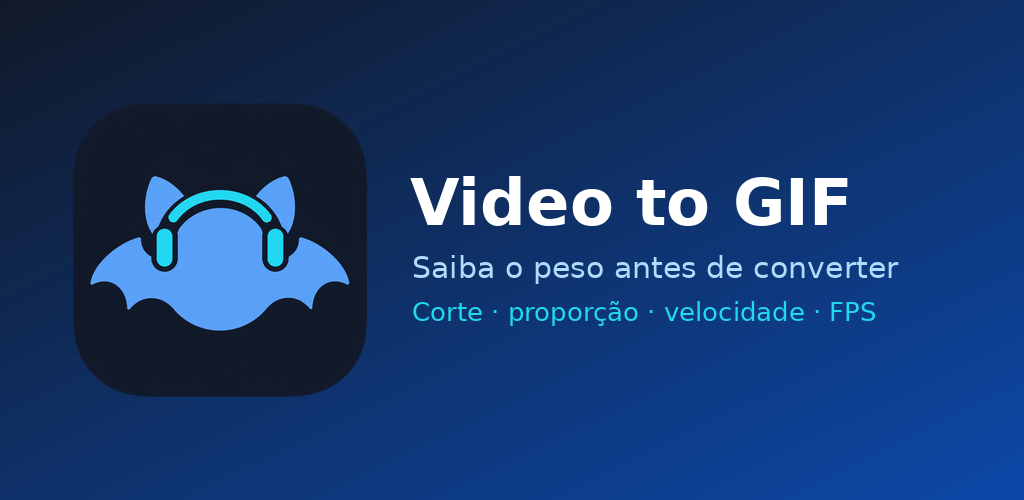
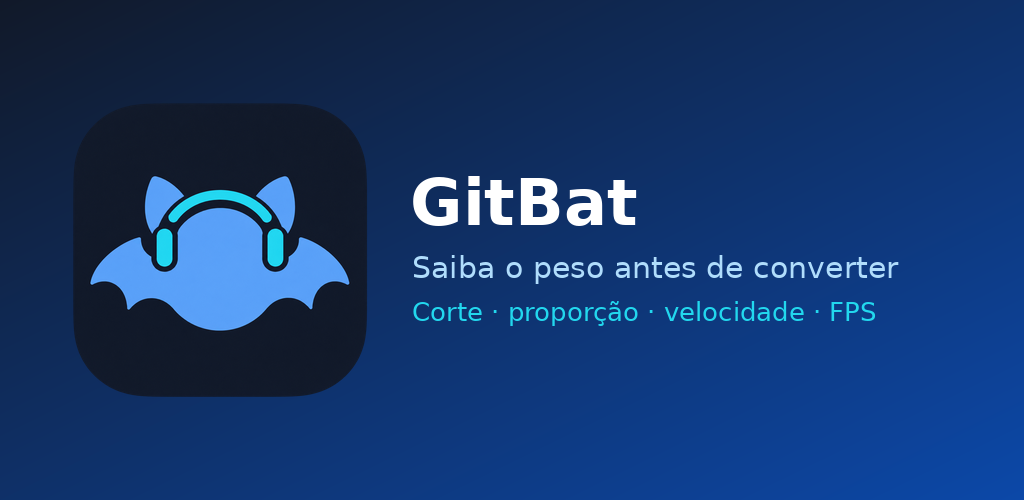
Renomeia o app para GitBat
- Nome exibido no Android, na tela inicial, no "Sobre" e nos textos de
  compartilhamento passa a ser GitBat; o álbum da galeria vira "GitBat".
- Tudo o que o app salva ou compartilha (GIF, WebP, vídeos, fotos com
  moldura, montagens e SVG) sai com nome GitBat_AAAAMMDD_HHMMSS.
- README, documentação, ficha da loja, banner da loja e workflows (nome
  dos APKs e dos lançamentos) atualizados para GitBat e para o novo
  endereço do repositório, gitbat-app.

Claude-Session: https://claude.ai/code/session_016VjLcjd3kAHMXc5UJLnbyn

Changed region(s): [[0.4062, 0.33, 0.6875, 0.45], [0.7188, 0.33, 0.8438, 0.45]]

diff --git a/lib/core/services/output_service.dart b/lib/core/services/output_service.dart
@@ -7,7 +7,35 @@ import 'package:share_plus/share_plus.dart';
 class OutputService {
   const OutputService();
 
-  static const _albumName = 'Video to GIF';
+  static const _albumName = 'GitBat';
+
+  /// Início do nome de todo arquivo que o app salva ou compartilha.
+  static const filePrefix = 'GitBat_';
+
+  /// Nome com a marca do app e a data/hora, ex.: `GitBat_20260927_201530.gif`.
+  static String brandedFileName(String extension, DateTime when) {
+    String two(int n) => n.toString().padLeft(2, '0');
+    final date = '${when.year}${two(when.month)}${two(when.day)}';
+    final time = '${two(when.hour)}${two(when.minute)}${two(when.second)}';
+    final suffix = extension.isEmpty ? '' : '.$extension';
+    return '$filePrefix${date}_$time$suffix';
+  }
+
+  /// Cópia de [file] com o nome de [brandedFileName], numa pasta própria ao
+  /// lado dele — a galeria e o compartilhamento usam o nome do arquivo. Os
+  /// arquivos das telas saem no temporário com nomes internos (`gif_123.gif`),
+  /// e o original continua lá para quem ainda for usá-lo.
+  static Future<File> brandedCopy(File file, {DateTime? now}) async {
+    final name = file.uri.pathSegments.last;
+    if (name.startsWith(filePrefix)) return file;
+    final dot = name.lastIndexOf('.');
+    final extension = dot == -1 ? '' : name.substring(dot + 1);
+    final dir = await Directory(
+      '${file.parent.path}/gitbat_${DateTime.now().microsecondsSinceEpoch}',
+    ).create(recursive: true);
+    final branded = brandedFileName(extension, now ?? DateTime.now());
+    return file.copy('${dir.path}/$branded');
+  }
 
   /// Salva na galeria do aparelho, pedindo permissão se ainda não tiver.
   ///
@@ -23,21 +51,31 @@ class OutputService {
       if (!granted) {
         throw OutputException(
           'Sem permissão para salvar na galeria. Você pode liberar em '
-          'Ajustes > Apps > Video to GIF > Permissões.',
+          'Ajustes > Apps > GitBat > Permissões.',
         );
       }
     }
 
+    final branded = await brandedCopy(gif);
     try {
       if (asVideo) {
-        await Gal.putVideo(gif.path, album: _albumName);
+        await Gal.putVideo(branded.path, album: _albumName);
       } else {
-        await Gal.putImage(gif.path, album: _albumName);
+        await Gal.putImage(branded.path, album: _albumName);
       }
     } on GalException catch (e) {
       throw OutputException(
         'Não foi possível salvar na galeria: ${e.type.message}',
       );
+    } finally {
+      // A galeria guarda a própria cópia; a nossa já não serve para nada.
+      if (branded.path != gif.path) {
+        try {
+          await branded.parent.delete(recursive: true);
+        } on FileSystemException {
+          // Sobra no temporário, que o sistema limpa sozinho.
+        }
+      }
     }
   }
 
@@ -47,11 +85,12 @@ class OutputService {
   Future<void> share(
     File file, {
     String mimeType = 'image/gif',
-    String text = 'GIF feito com o app Video to GIF',
+    String text = 'GIF feito com o app GitBat',
   }) async {
+    final branded = await brandedCopy(file);
     await SharePlus.instance.share(
       ShareParams(
-        files: [XFile(file.path, mimeType: mimeType)],
+        files: [XFile(branded.path, mimeType: mimeType)],
         text: text,
       ),
     );

diff --git a/test/output_service_test.dart b/test/output_service_test.dart
@@ -1,0 +1,34 @@
+import 'dart:io';
+
+import 'package:flutter_test/flutter_test.dart';
+import 'package:video_to_gif/core/services/output_service.dart';
+
+// Tudo o que o app salva ou compartilha sai com o nome da marca.
+
+void main() {
+  test('nome do arquivo começa com GitBat_ e leva a data/hora', () {
+    final when = DateTime(2026, 9, 7, 8, 5, 3);
+    expect(
+      OutputService.brandedFileName('gif', when),
+      'GitBat_20260907_080503.gif',
+    );
+    expect(OutputService.brandedFileName('', when), 'GitBat_20260907_080503');
+  });
+
+  test('cópia com o nome da marca, sem mexer no original', () async {
+    final dir = await Directory.systemTemp.createTemp('saida_');
+    addTearDown(() => dir.delete(recursive: true));
+    final original = await File('${dir.path}/mp4_123.mp4').writeAsString('x');
+
+    final branded = await OutputService.brandedCopy(
+      original,
+      now: DateTime(2026, 1, 2, 3, 4, 5),
+    );
+
+    expect(branded.uri.pathSegments.last, 'GitBat_20260102_030405.mp4');
+    expect(await branded.readAsString(), 'x');
+    expect(await original.exists(), isTrue);
+    // Já com a marca: usa o próprio arquivo.
+    expect((await OutputService.brandedCopy(branded)).path, branded.path);
+  });
+}

diff --git a/lib/features/home/home_page.dart b/lib/features/home/home_page.dart
@@ -340,7 +340,7 @@ class _HomePageState extends State<HomePage> {
             icon: const Icon(Icons.info_outline),
             onPressed: () => showAboutDialog(
               context: context,
-              applicationName: 'Video to GIF',
+              applicationName: 'GitBat',
               applicationVersion: '1.0.0',
               applicationLegalese:
                   'Conversão feita no próprio aparelho com FFmpeg (LGPL). '
@@ -363,11 +363,11 @@ class _HomePageState extends State<HomePage> {
                   width: 96,
                   height: 96,
                   fit: BoxFit.contain,
-                  semanticLabel: 'Ícone do conversor de vídeo para GIF',
+                  semanticLabel: 'Ícone do GitBat',
                 ),
                 const SizedBox(height: 16),
                 Text(
-                  'Video to GIF',
+                  'GitBat',
                   textAlign: TextAlign.center,
                   style: theme.textTheme.headlineSmall?.copyWith(
                     fontWeight: FontWeight.bold,

diff --git a/lib/main.dart b/lib/main.dart
@@ -26,13 +26,13 @@ Future<void> main() async {
   ];
   bundledStickerAssets = await loadBundledStickerAssets();
   bundledImageFrames = await loadBundledImageFrames();
-  runApp(const VideoToGifApp());
+  runApp(const GitBatApp());
 }
 
 /// Widget raiz do app: configura o MaterialApp com os temas claro/escuro na
 /// paleta escolhida e define a HomePage como tela inicial.
-class VideoToGifApp extends StatelessWidget {
-  const VideoToGifApp({super.key});
+class GitBatApp extends StatelessWidget {
+  const GitBatApp({super.key});
 
   @override
   Widget build(BuildContext context) {
@@ -41,7 +41,7 @@ class VideoToGifApp extends StatelessWidget {
       builder: (context, _) {
         final palette = paletteNotifier.value;
         return MaterialApp(
-          title: 'Video to GIF',
+          title: 'GitBat',
           debugShowCheckedModeBanner: false,
           theme: buildTheme(Brightness.light, palette),
           darkTheme: buildTheme(Brightness.dark, palette),

diff --git a/lib/features/svg/svg_edit_page.dart b/lib/features/svg/svg_edit_page.dart
@@ -1164,7 +1164,7 @@ class _SvgEditPageState extends State<SvgEditPage> {
     final withoutExt = base.toLowerCase().endsWith('.svg')
         ? base.substring(0, base.length - 4)
         : base;
-    return '${withoutExt}_editado.svg';
+    return '${OutputService.filePrefix}${withoutExt}_editado.svg';
   }
 
   Future<void> _save() async {
@@ -1204,7 +1204,7 @@ class _SvgEditPageState extends State<SvgEditPage> {
       await _output.share(
         file,
         mimeType: 'image/svg+xml',
-        text: 'SVG editado com o app Video to GIF',
+        text: 'SVG editado com o app GitBat',
       );
     } on SvgEditException catch (e) {
       if (!mounted) return;

diff --git a/lib/features/quick_convert/quick_convert_page.dart b/lib/features/quick_convert/quick_convert_page.dart
@@ -824,7 +824,7 @@ class _QuickConvertDialogState extends State<_QuickConvertDialog> {
         onPressed: () => _output.share(
           _file!,
           mimeType: widget.format.mimeType,
-          text: '${widget.format.label} feito com o app Video to GIF',
+          text: '${widget.format.label} feito com o app GitBat',
         ),
         icon: const Icon(Icons.share_outlined),
         label: const Text('Compartilhar'),

diff --git a/lib/features/video/result_page.dart b/lib/features/video/result_page.dart
@@ -77,7 +77,7 @@ class _ResultPageState extends State<ResultPage> {
             onPressed: () => _output.share(
               result.file,
               mimeType: result.format.mimeType,
-              text: '${result.format.shortLabel} feito com o app Video to GIF',
+              text: '${result.format.shortLabel} feito com o app GitBat',
             ),
             icon: const Icon(Icons.share_outlined),
           ),

diff --git a/lib/features/collage/collage_page.dart b/lib/features/collage/collage_page.dart
@@ -2637,7 +2637,7 @@ class _CollagePageState extends State<CollagePage> {
       await _output.share(
         file,
         mimeType: format.mimeType,
-        text: 'Montagem de fotos feita com o app Video to GIF',
+        text: 'Montagem de fotos feita com o app GitBat',
       );
     } on FfmpegException catch (e) {
       if (!mounted) return;

diff --git a/lib/features/photo/photo_frame_page.dart b/lib/features/photo/photo_frame_page.dart
@@ -340,7 +340,7 @@ class _PhotoFramePageState extends State<PhotoFramePage> {
       await _output.share(
         file,
         mimeType: 'image/png',
-        text: 'Foto com moldura feita com o app Video to GIF',
+        text: 'Foto com moldura feita com o app GitBat',
       );
     } catch (_) {
       if (!mounted) return;

diff --git a/tool/gerar_icones.py b/tool/gerar_icones.py
@@ -128,7 +128,7 @@ def grafico_destaque():
     imagem.alpha_composite(icone_completo(300), (70, 100))
 
     desenho = ImageDraw.Draw(imagem)
-    desenho.text((410, 165), 'Video to GIF', font=fonte(64), fill=BRANCO)
+    desenho.text((410, 165), 'GitBat', font=fonte(64), fill=BRANCO)
     desenho.text(
         (412, 250),
         'Saiba o peso antes de converter',

diff --git a/README.md b/README.md
@@ -2,11 +2,11 @@
 
 <img width="200" src="assets/video-to-gif-logo-adaptive.svg"/>
 
-# Video to GIF
+# GitBat
 
 <img width="460" src="assets/video-to-gif-badges-adaptive-v9.svg"/>
 
-<p align="center"><a href="https://github.com/lianeheidemann/video-to-gif/actions/workflows/ci.yml"><img height="22" alt="CI" src="https://img.shields.io/github/actions/workflow/status/lianeheidemann/video-to-gif/ci.yml?branch=main&style=flat-square&label=CI&logo=github&logoColor=white&labelColor=372b4d&color=8B5CF6"></a>&nbsp;<a href="https://github.com/lianeheidemann/video-to-gif/actions/workflows/release.yml"><img height="22" alt="Release" src="https://img.shields.io/github/actions/workflow/status/lianeheidemann/video-to-gif/release.yml?branch=main&style=flat-square&label=Release&logo=github&logoColor=white&labelColor=372b4d&color=8B5CF6"></a></p>
+<p align="center"><a href="https://github.com/lianeheidemann/gitbat-app/actions/workflows/ci.yml"><img height="22" alt="CI" src="https://img.shields.io/github/actions/workflow/status/lianeheidemann/gitbat-app/ci.yml?branch=main&style=flat-square&label=CI&logo=github&logoColor=white&labelColor=372b4d&color=8B5CF6"></a>&nbsp;<a href="https://github.com/lianeheidemann/gitbat-app/actions/workflows/release.yml"><img height="22" alt="Release" src="https://img.shields.io/github/actions/workflow/status/lianeheidemann/gitbat-app/release.yml?branch=main&style=flat-square&label=Release&logo=github&logoColor=white&labelColor=372b4d&color=8B5CF6"></a></p>
 
 
 
@@ -17,13 +17,13 @@ directly on Android — privately and offline.**
 
 <img src="assets/gif/video-to-gif-interface-v3.webp"/><br>
 
-**[⬇ Download the latest APK](https://github.com/lianeheidemann/video-to-gif/releases/latest)**
+**[⬇ Download the latest APK](https://github.com/lianeheidemann/gitbat-app/releases/latest)**
 
 </div>
 
 ## Overview
 
-Video to GIF is an Android app built with Flutter. Everything runs on the
+GitBat is an Android app built with Flutter. Everything runs on the
 device with FFmpeg — the app has **no internet permission**.
 
 | Tool | Purpose |
@@ -102,7 +102,7 @@ device with FFmpeg — the app has **no internet permission**.
 
 ## Download
 
-Each [Release](https://github.com/lianeheidemann/video-to-gif/releases)
+Each [Release](https://github.com/lianeheidemann/gitbat-app/releases)
 ships ready-to-install APKs:
 
 | File | Use |
@@ -118,8 +118,8 @@ Pre-releases named `teste-N` are test builds, not stable versions.
 **Requirements:** Flutter 3.47.0 (Dart 3.12+), Android SDK (API 36) and NDK.
 
 ```bash
-git clone https://github.com/lianeheidemann/video-to-gif.git
-cd video-to-gif
+git clone https://github.com/lianeheidemann/gitbat-app.git
+cd gitbat-app
 flutter pub get
 flutter test
 flutter run

diff --git a/docs/pt-Br/POLITICA_DE_PRIVACIDADE.md b/docs/pt-Br/POLITICA_DE_PRIVACIDADE.md
@@ -1,4 +1,4 @@
-# Política de Privacidade — Video to GIF
+# Política de Privacidade — GitBat
 
 **Última atualização:** _preencha a data em que você publicar_
 
@@ -16,7 +16,7 @@
 
 ## Resumo
 
-O aplicativo **Video to GIF** não coleta, não armazena e não compartilha
+O aplicativo **GitBat** não coleta, não armazena e não compartilha
 nenhum dado pessoal. Todo o processamento acontece dentro do seu aparelho.
 
 ## Dados coletados
